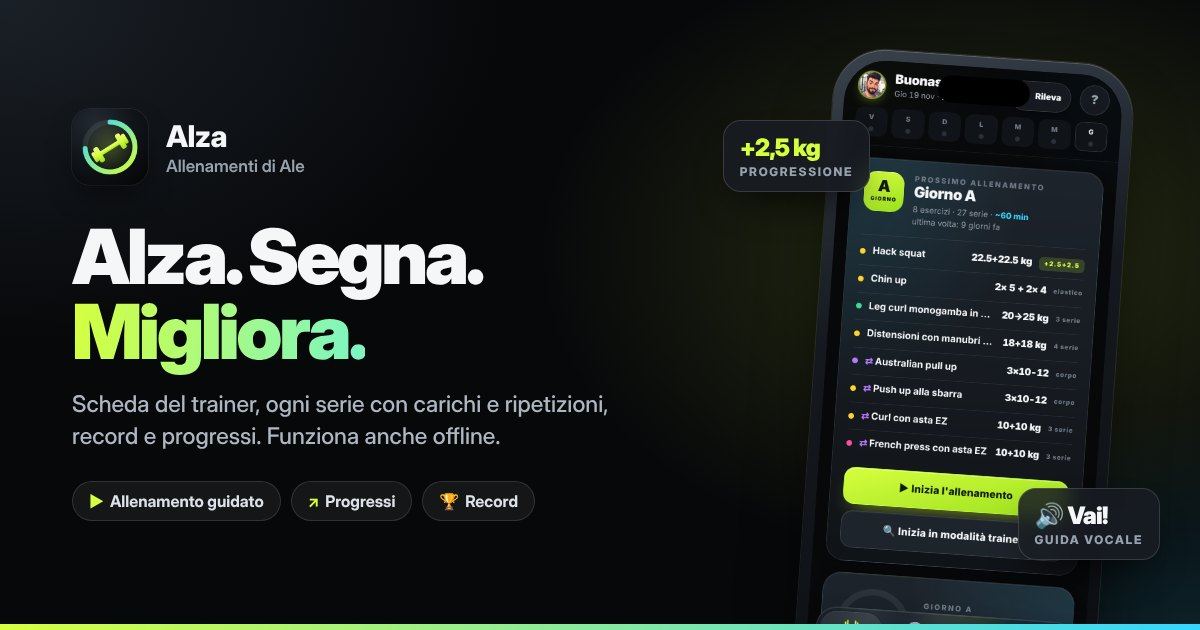
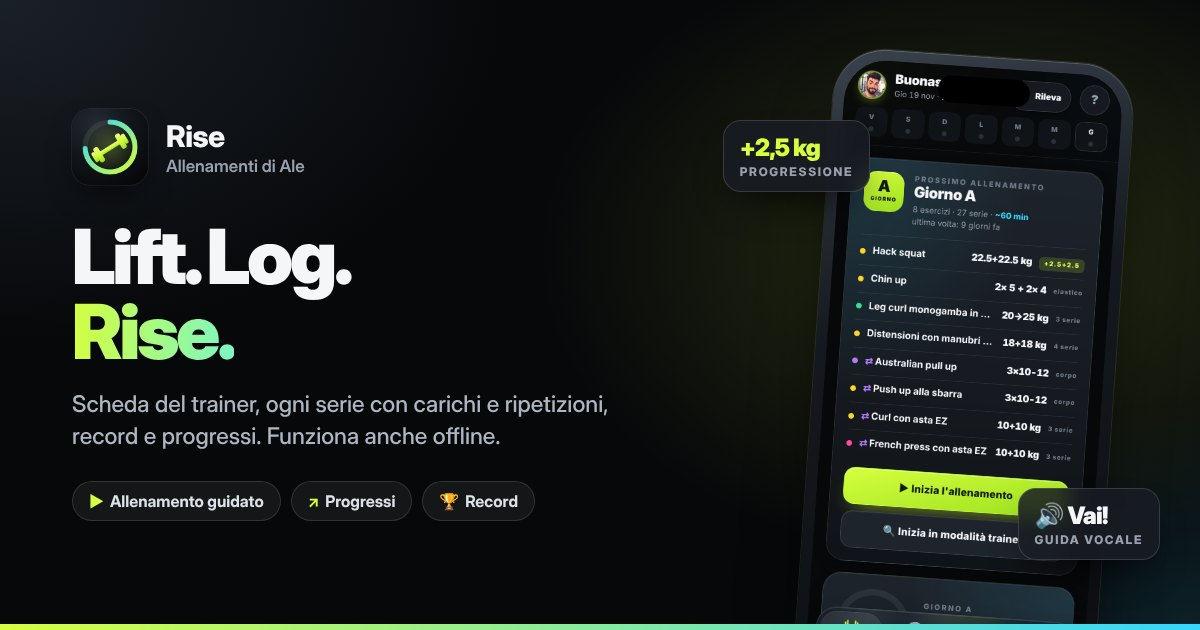
feat(gym): l'app si chiama Rise
- nome sotto l'icona: Rise (manifest, iOS, Android, titoli)
- claim Lift. Log. Rise. nelle anteprime WhatsApp (v=4)
- cache del service worker a gym-v32

Claude-Session: https://claude.ai/code/session_0125vg2Mnz5tSTRbvEntGK8m

Changed region(s): [[0.0617, 0.3619, 0.4008, 0.6032], [0.1233, 0.181, 0.185, 0.2413]]

diff --git a/public/gym/index.html b/public/gym/index.html
@@ -8,27 +8,27 @@
 <meta name="theme-color" content="#08090B">
 <meta name="mobile-web-app-capable" content="yes">
 <meta name="apple-mobile-web-app-capable" content="yes">
-<meta name="apple-mobile-web-app-title" content="Alza">
-<meta name="application-name" content="Alza">
+<meta name="apple-mobile-web-app-title" content="Rise">
+<meta name="application-name" content="Rise">
 <meta name="apple-mobile-web-app-status-bar-style" content="black-translucent">
-<title>Alza · Allenamenti</title>
-<meta name="description" content="Alza. Segna. Migliora. Scheda del trainer, ogni serie con carichi e ripetizioni, record e progressi. Funziona anche offline.">
+<title>Rise · Workout</title>
+<meta name="description" content="Lift. Log. Rise. Scheda del trainer, ogni serie con carichi e ripetizioni, record e progressi. Funziona anche offline.">
 <meta property="og:type" content="website">
 <meta property="og:url" content="https://alessandrovizzini1986-a11y.github.io/barcellona-40/gym/">
-<meta property="og:site_name" content="Alza · Allenamenti di Ale">
-<meta property="og:title" content="ALZA. SEGNA. MIGLIORA.">
+<meta property="og:site_name" content="Rise · Allenamenti di Ale">
+<meta property="og:title" content="Rise · Lift. Log. Rise.">
 <meta property="og:description" content="Scheda del trainer, allenamento guidato, ogni serie con carichi e ripetizioni, record e progressi. Lo storico di Ale, sempre aggiornato.">
-<meta property="og:image" content="https://alessandrovizzini1986-a11y.github.io/barcellona-40/gym/og-palestra.jpg?v=3">
-<meta property="og:image:secure_url" content="https://alessandrovizzini1986-a11y.github.io/barcellona-40/gym/og-palestra.jpg?v=3">
+<meta property="og:image" content="https://alessandrovizzini1986-a11y.github.io/barcellona-40/gym/og-palestra.jpg?v=4">
+<meta property="og:image:secure_url" content="https://alessandrovizzini1986-a11y.github.io/barcellona-40/gym/og-palestra.jpg?v=4">
 <meta property="og:image:type" content="image/jpeg">
 <meta property="og:image:width" content="1200">
 <meta property="og:image:height" content="630">
-<meta property="og:image:alt" content="App Alza: icona, claim Alza Segna Migliora e schermata del prossimo allenamento">
+<meta property="og:image:alt" content="App Rise: icona, claim Lift Log Rise e schermata del prossimo allenamento">
 <meta property="og:locale" content="it_IT">
 <meta name="twitter:card" content="summary_large_image">
-<meta name="twitter:title" content="ALZA. SEGNA. MIGLIORA.">
+<meta name="twitter:title" content="Rise · Lift. Log. Rise.">
 <meta name="twitter:description" content="Lo storico di Ale: scheda, progressi e report per il trainer.">
-<meta name="twitter:image" content="https://alessandrovizzini1986-a11y.github.io/barcellona-40/gym/og-palestra.jpg?v=3">
+<meta name="twitter:image" content="https://alessandrovizzini1986-a11y.github.io/barcellona-40/gym/og-palestra.jpg?v=4">
 <link rel="manifest" href="manifest.json">
 <link rel="icon" type="image/png" sizes="48x48" href="favicon-48.png">
 <link rel="icon" type="image/png" sizes="192x192" href="icon-192.png">
@@ -3487,7 +3487,7 @@ function vaiA(v){
 }
 if(TRAINER){
   document.body.classList.add('trainer');
-  document.title='Alza · vista trainer';
+  document.title='Rise · vista trainer';
   fetch('storico.json?nc='+Date.now(),{cache:'no-store'})
     .then(r=>r.ok?r.json():Promise.reject())
     .then(j=>{

diff --git a/public/gym/trainer.html b/public/gym/trainer.html
@@ -6,16 +6,16 @@
 <meta name="viewport" content="width=device-width,initial-scale=1,viewport-fit=cover">
 <meta name="color-scheme" content="dark">
 <meta name="theme-color" content="#08090B">
-<title>Alessandro Vizzini · Alza</title>
+<title>Alessandro Vizzini · Rise</title>
 <meta name="description" content="Allenamenti di Alessandro Vizzini: ultima seduta a colpo d'occhio, target contro eseguito, progressi e avvisi di stallo. Sempre aggiornato, sola lettura.">
 <!-- anteprima dedicata al trainer: deve capire subito di quale cliente si tratta -->
 <meta property="og:type" content="profile">
 <meta property="og:url" content="https://alessandrovizzini1986-a11y.github.io/barcellona-40/gym/trainer.html">
-<meta property="og:site_name" content="Alza · Allenamenti">
+<meta property="og:site_name" content="Rise · Workout">
 <meta property="og:title" content="Alessandro Vizzini · allenamenti">
 <meta property="og:description" content="Allenamenti di Alessandro Vizzini: ultima seduta a colpo d'occhio, target contro eseguito, progressi e avvisi di stallo. Sempre aggiornato, sola lettura.">
-<meta property="og:image" content="https://alessandrovizzini1986-a11y.github.io/barcellona-40/gym/og-trainer.jpg?v=3">
-<meta property="og:image:secure_url" content="https://alessandrovizzini1986-a11y.github.io/barcellona-40/gym/og-trainer.jpg?v=3">
+<meta property="og:image" content="https://alessandrovizzini1986-a11y.github.io/barcellona-40/gym/og-trainer.jpg?v=4">
+<meta property="og:image:secure_url" content="https://alessandrovizzini1986-a11y.github.io/barcellona-40/gym/og-trainer.jpg?v=4">
 <meta property="og:image:type" content="image/jpeg">
 <meta property="og:image:width" content="1200">
 <meta property="og:image:height" content="630">
@@ -24,7 +24,7 @@
 <meta name="twitter:card" content="summary_large_image">
 <meta name="twitter:title" content="Alessandro Vizzini · allenamenti">
 <meta name="twitter:description" content="Ultima seduta a colpo d'occhio, target contro eseguito, progressi. Sola lettura.">
-<meta name="twitter:image" content="https://alessandrovizzini1986-a11y.github.io/barcellona-40/gym/og-trainer.jpg?v=3">
+<meta name="twitter:image" content="https://alessandrovizzini1986-a11y.github.io/barcellona-40/gym/og-trainer.jpg?v=4">
 <link rel="icon" type="image/png" sizes="48x48" href="favicon-48.png">
 <link rel="icon" type="image/png" sizes="192x192" href="icon-192.png">
 <link rel="apple-touch-icon" href="apple-touch-icon.png">

diff --git a/public/gym/sw.js b/public/gym/sw.js
@@ -1,6 +1,6 @@
 /* Palestra · service worker — app shell in cache, offline-first.
    Alza CACHE a ogni release per far arrivare gli aggiornamenti. */
-const CACHE = 'gym-v31';
+const CACHE = 'gym-v32';
 const SHELL = ['./', 'index.html', 'manifest.json', 'icon-192.png', 'icon-512.png', 'icon-maskable-512.png', 'icon-maskable-192.png', 'favicon-48.png', 'apple-touch-icon.png', 'ale.jpg', 'og-palestra.jpg', 'og-trainer.jpg', 'trainer.html', 'cavallo.webp'];
 
 self.addEventListener('install', e => {
